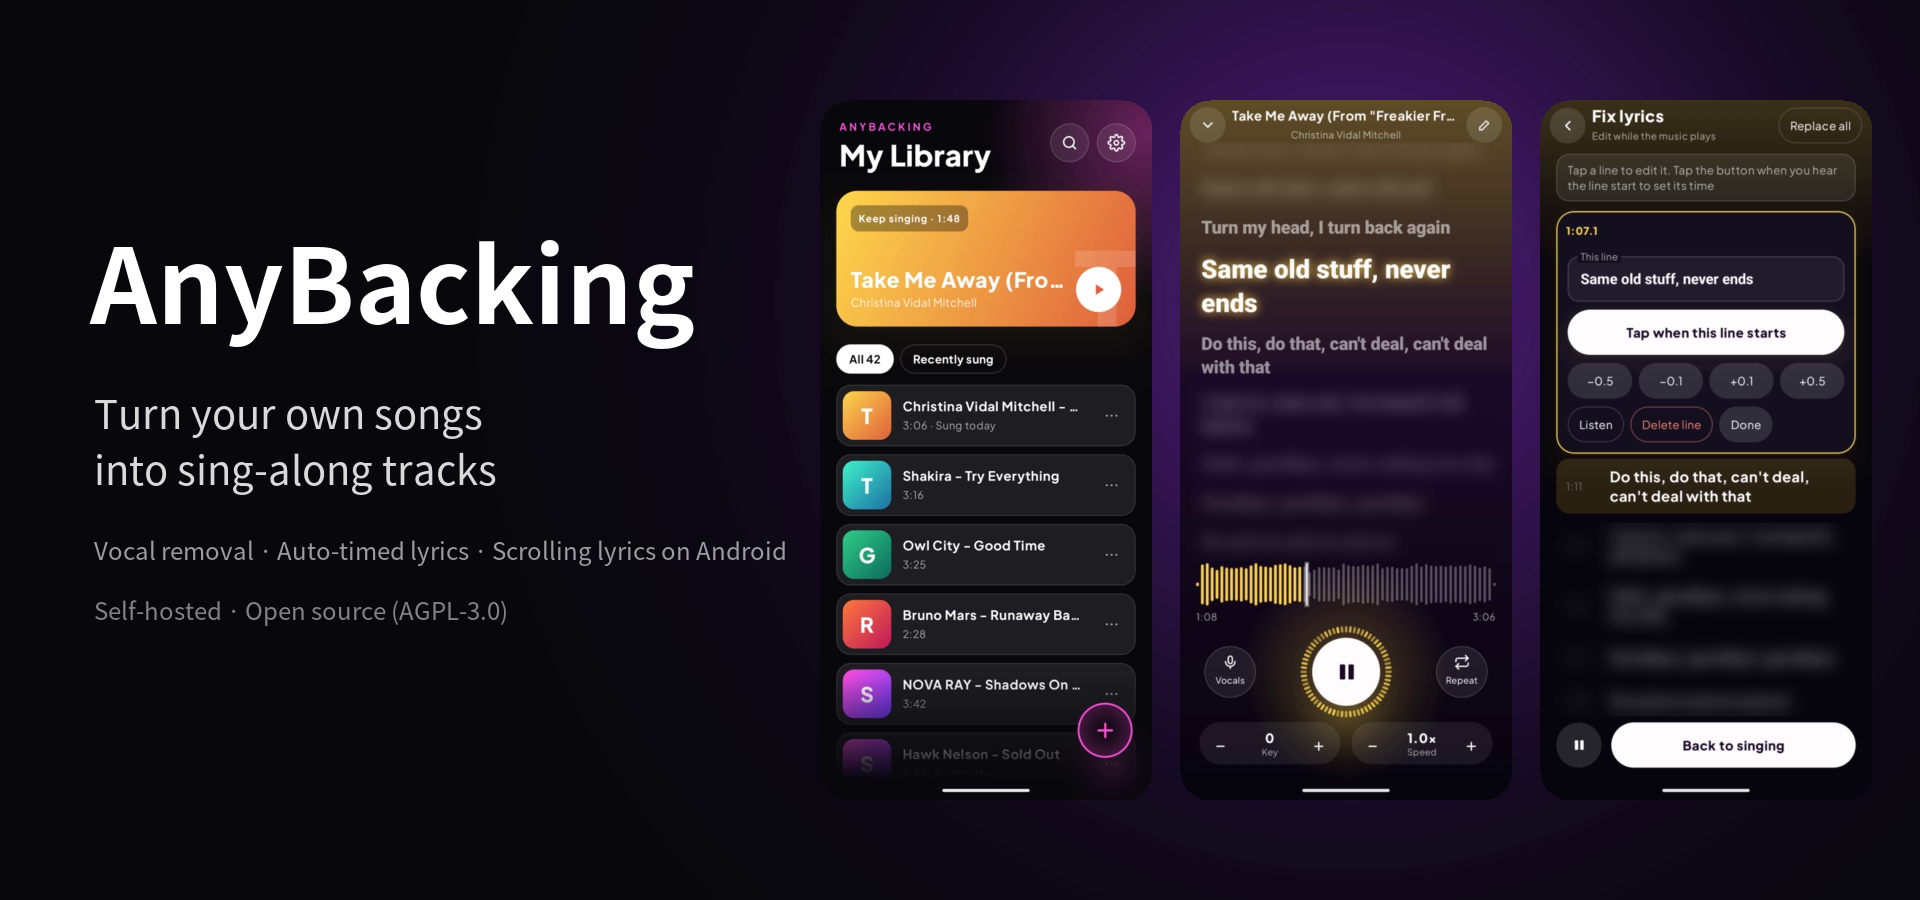
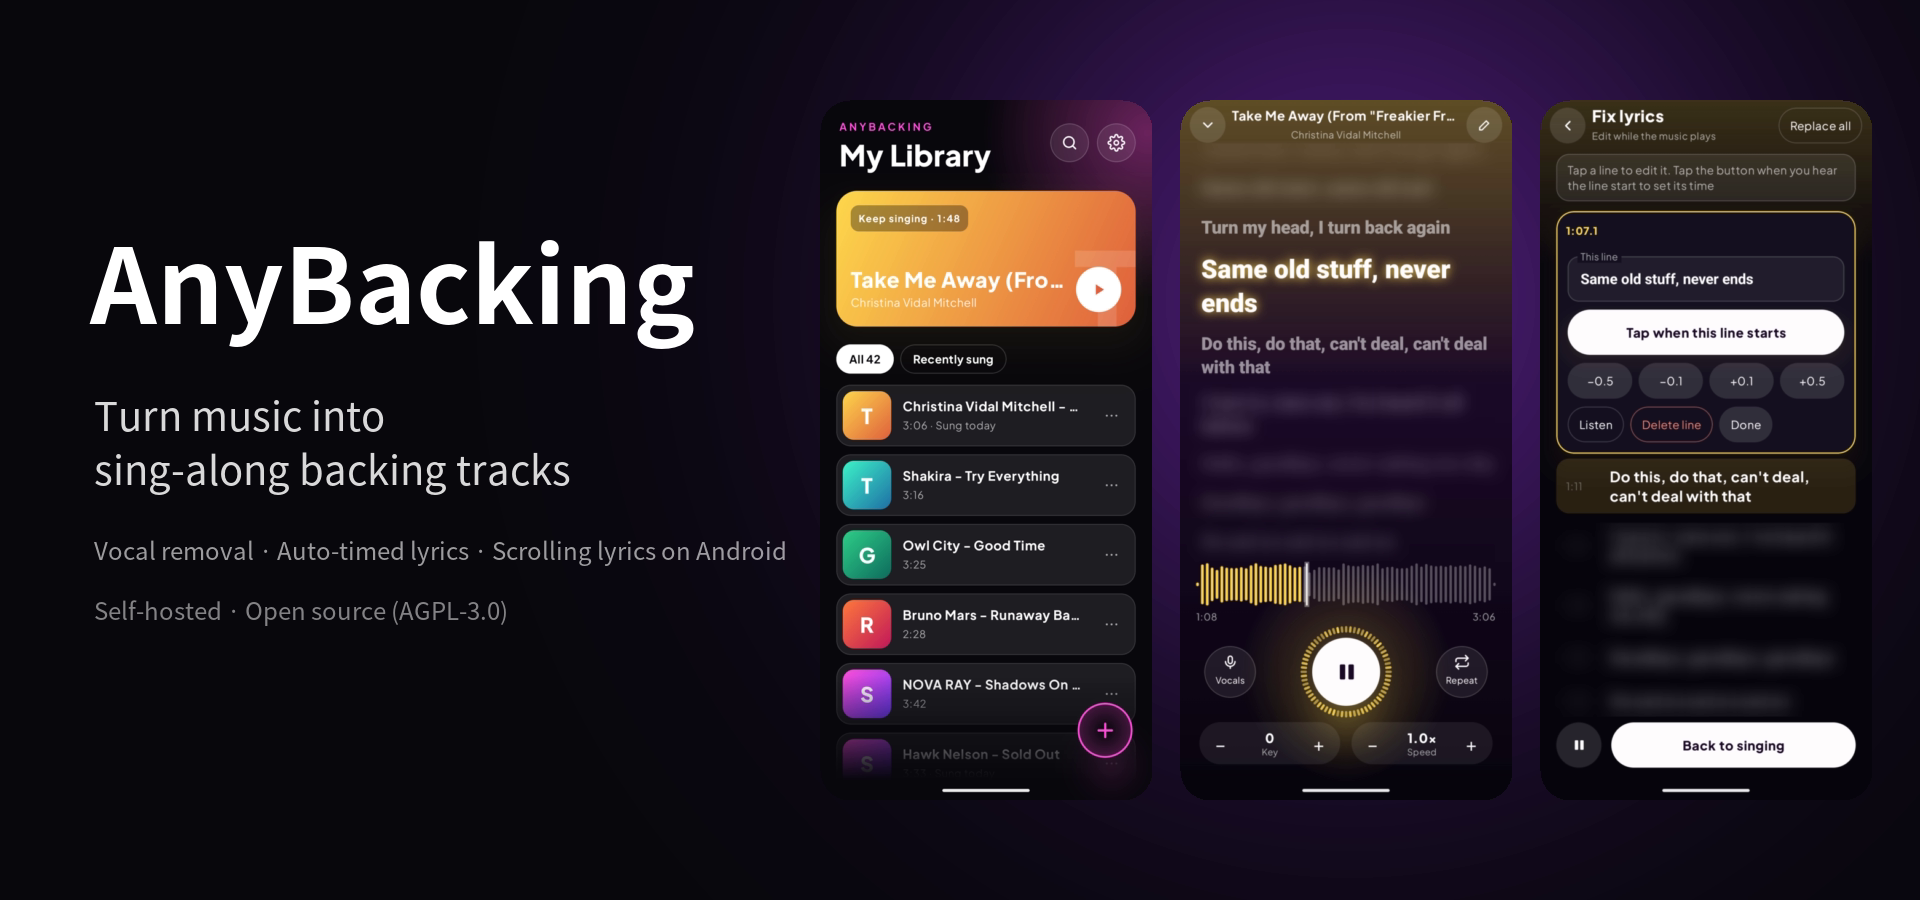
Tagline: turn music into sing-along backing tracks

Changed region(s): [[0.0312, 0.4356, 0.3125, 0.56]]

diff --git a/README.md b/README.md
@@ -1,6 +1,6 @@
 # AnyBacking（伴唱工坊）
 
-**Turn your own songs into sing-along backing tracks, on your own computer.**
+**Turn music into sing-along backing tracks, on your own computer.**
 Upload a song (or paste a video link) → AI removes the vocals, finds and times the lyrics → sing along on your Android phone with scrolling lyrics.
 
 [中文說明 README.zh-TW.md](README.zh-TW.md)

diff --git a/README.zh-TW.md b/README.zh-TW.md
@@ -1,6 +1,6 @@
 # 伴唱工坊 AnyBacking
 
-**在自己的電腦上，把自己的歌變成練唱伴奏。**
+**在自己的電腦上，把音樂變成練唱伴奏。**
 上傳一首歌（或貼影片網址）→ AI 去人聲、找歌詞並對好時間 → 在 Android 手機上跟著滾動歌詞唱。
 
 [English README](README.md)
